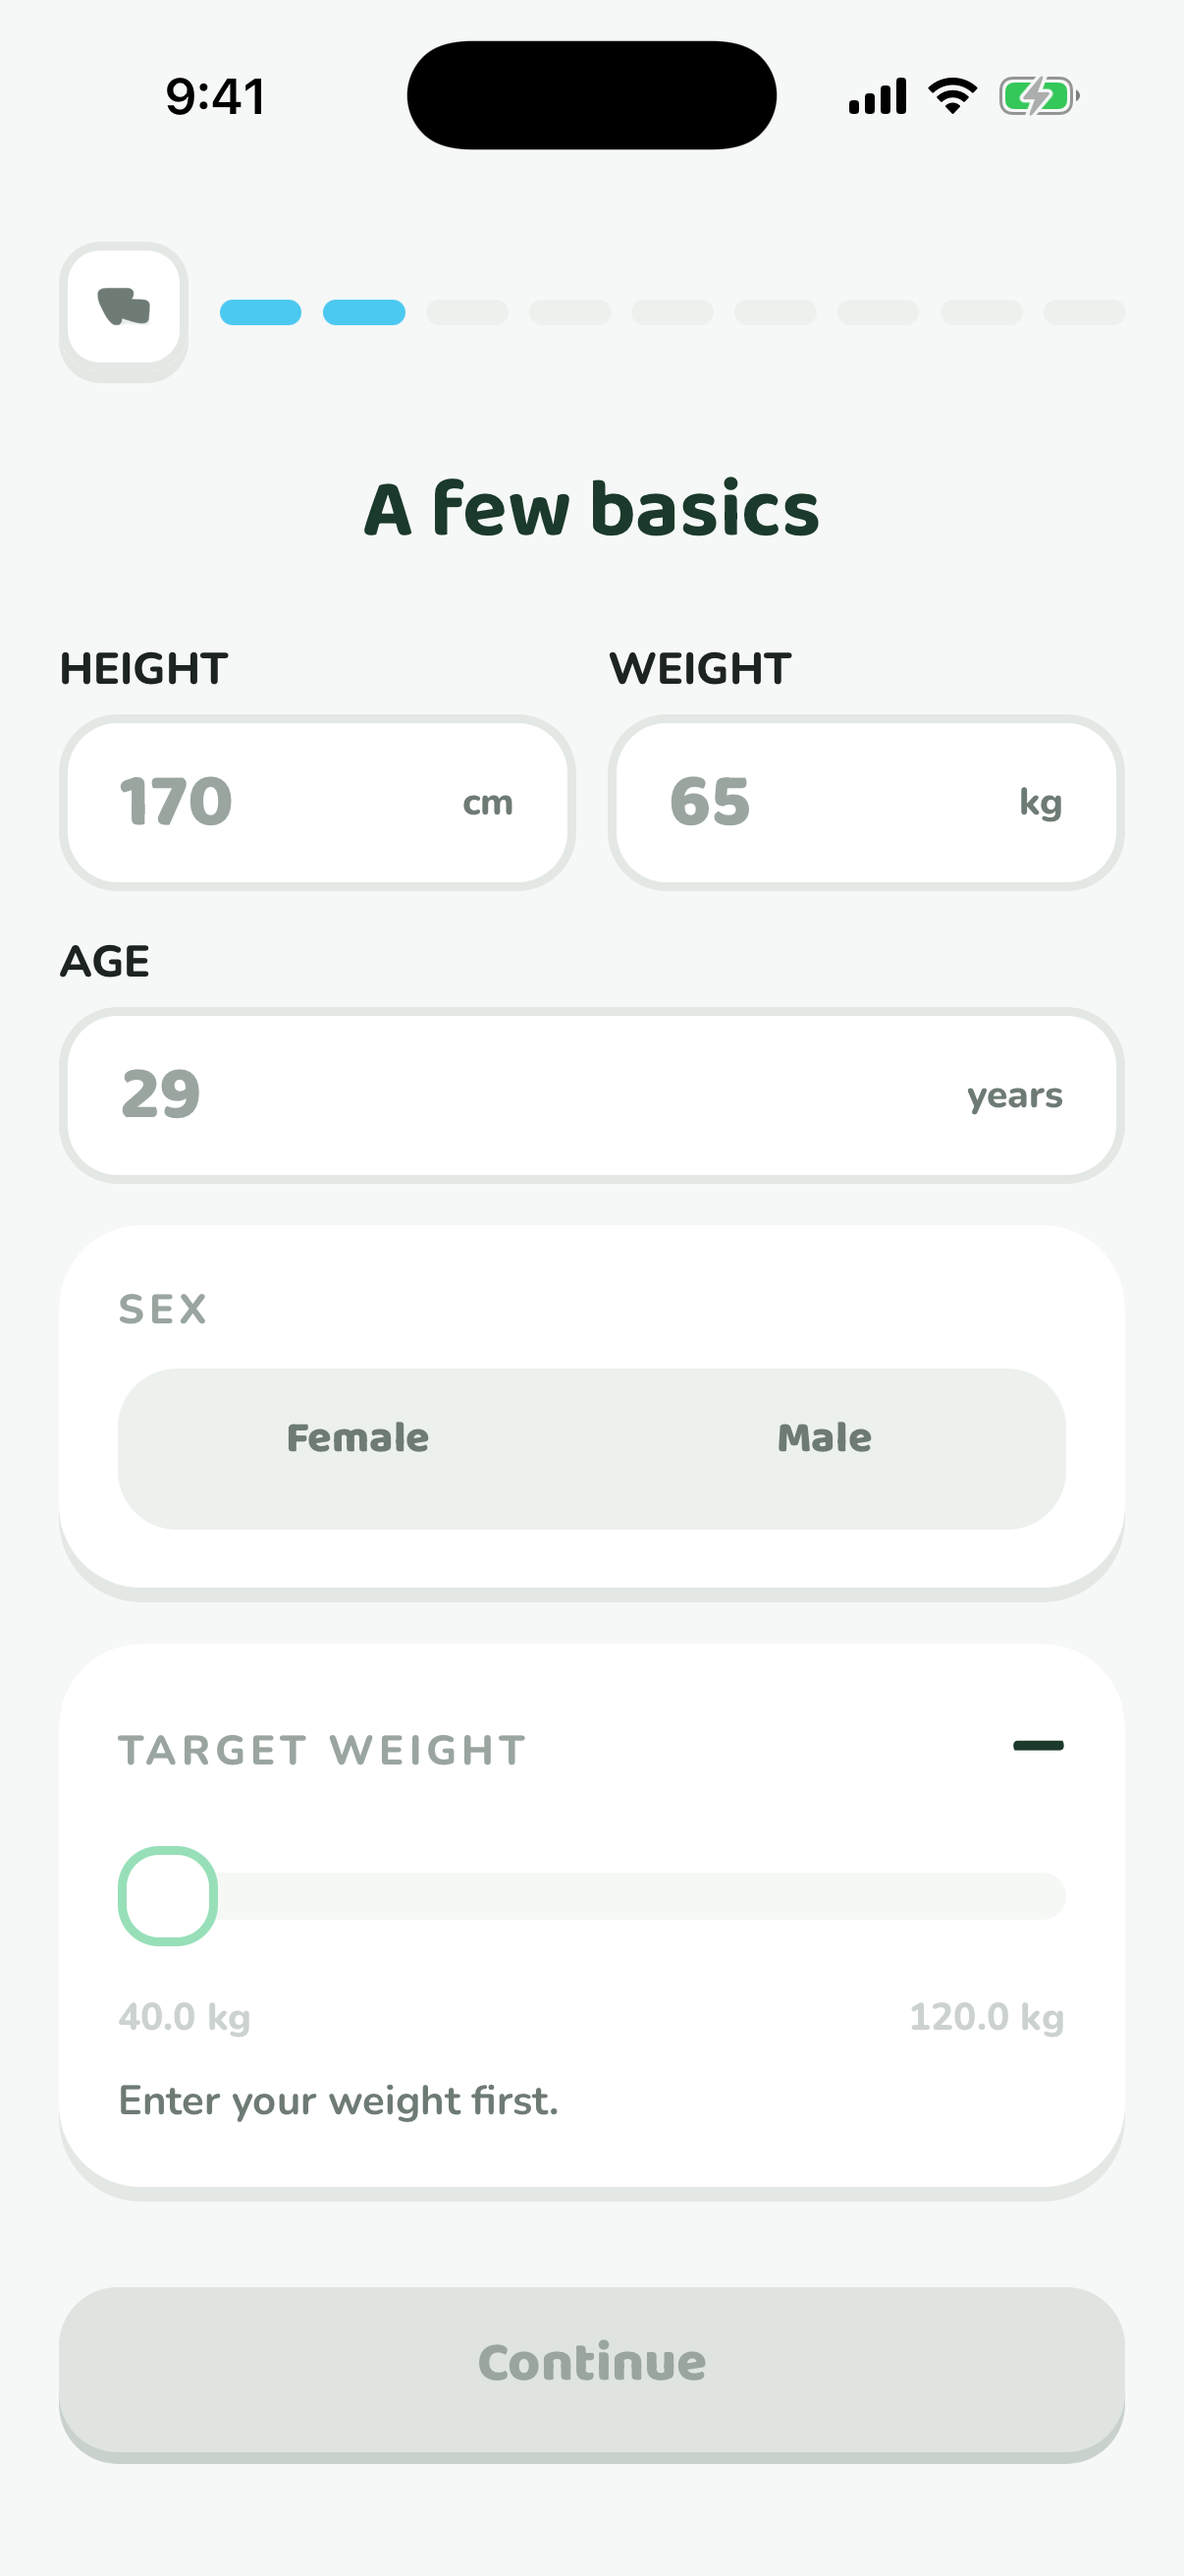
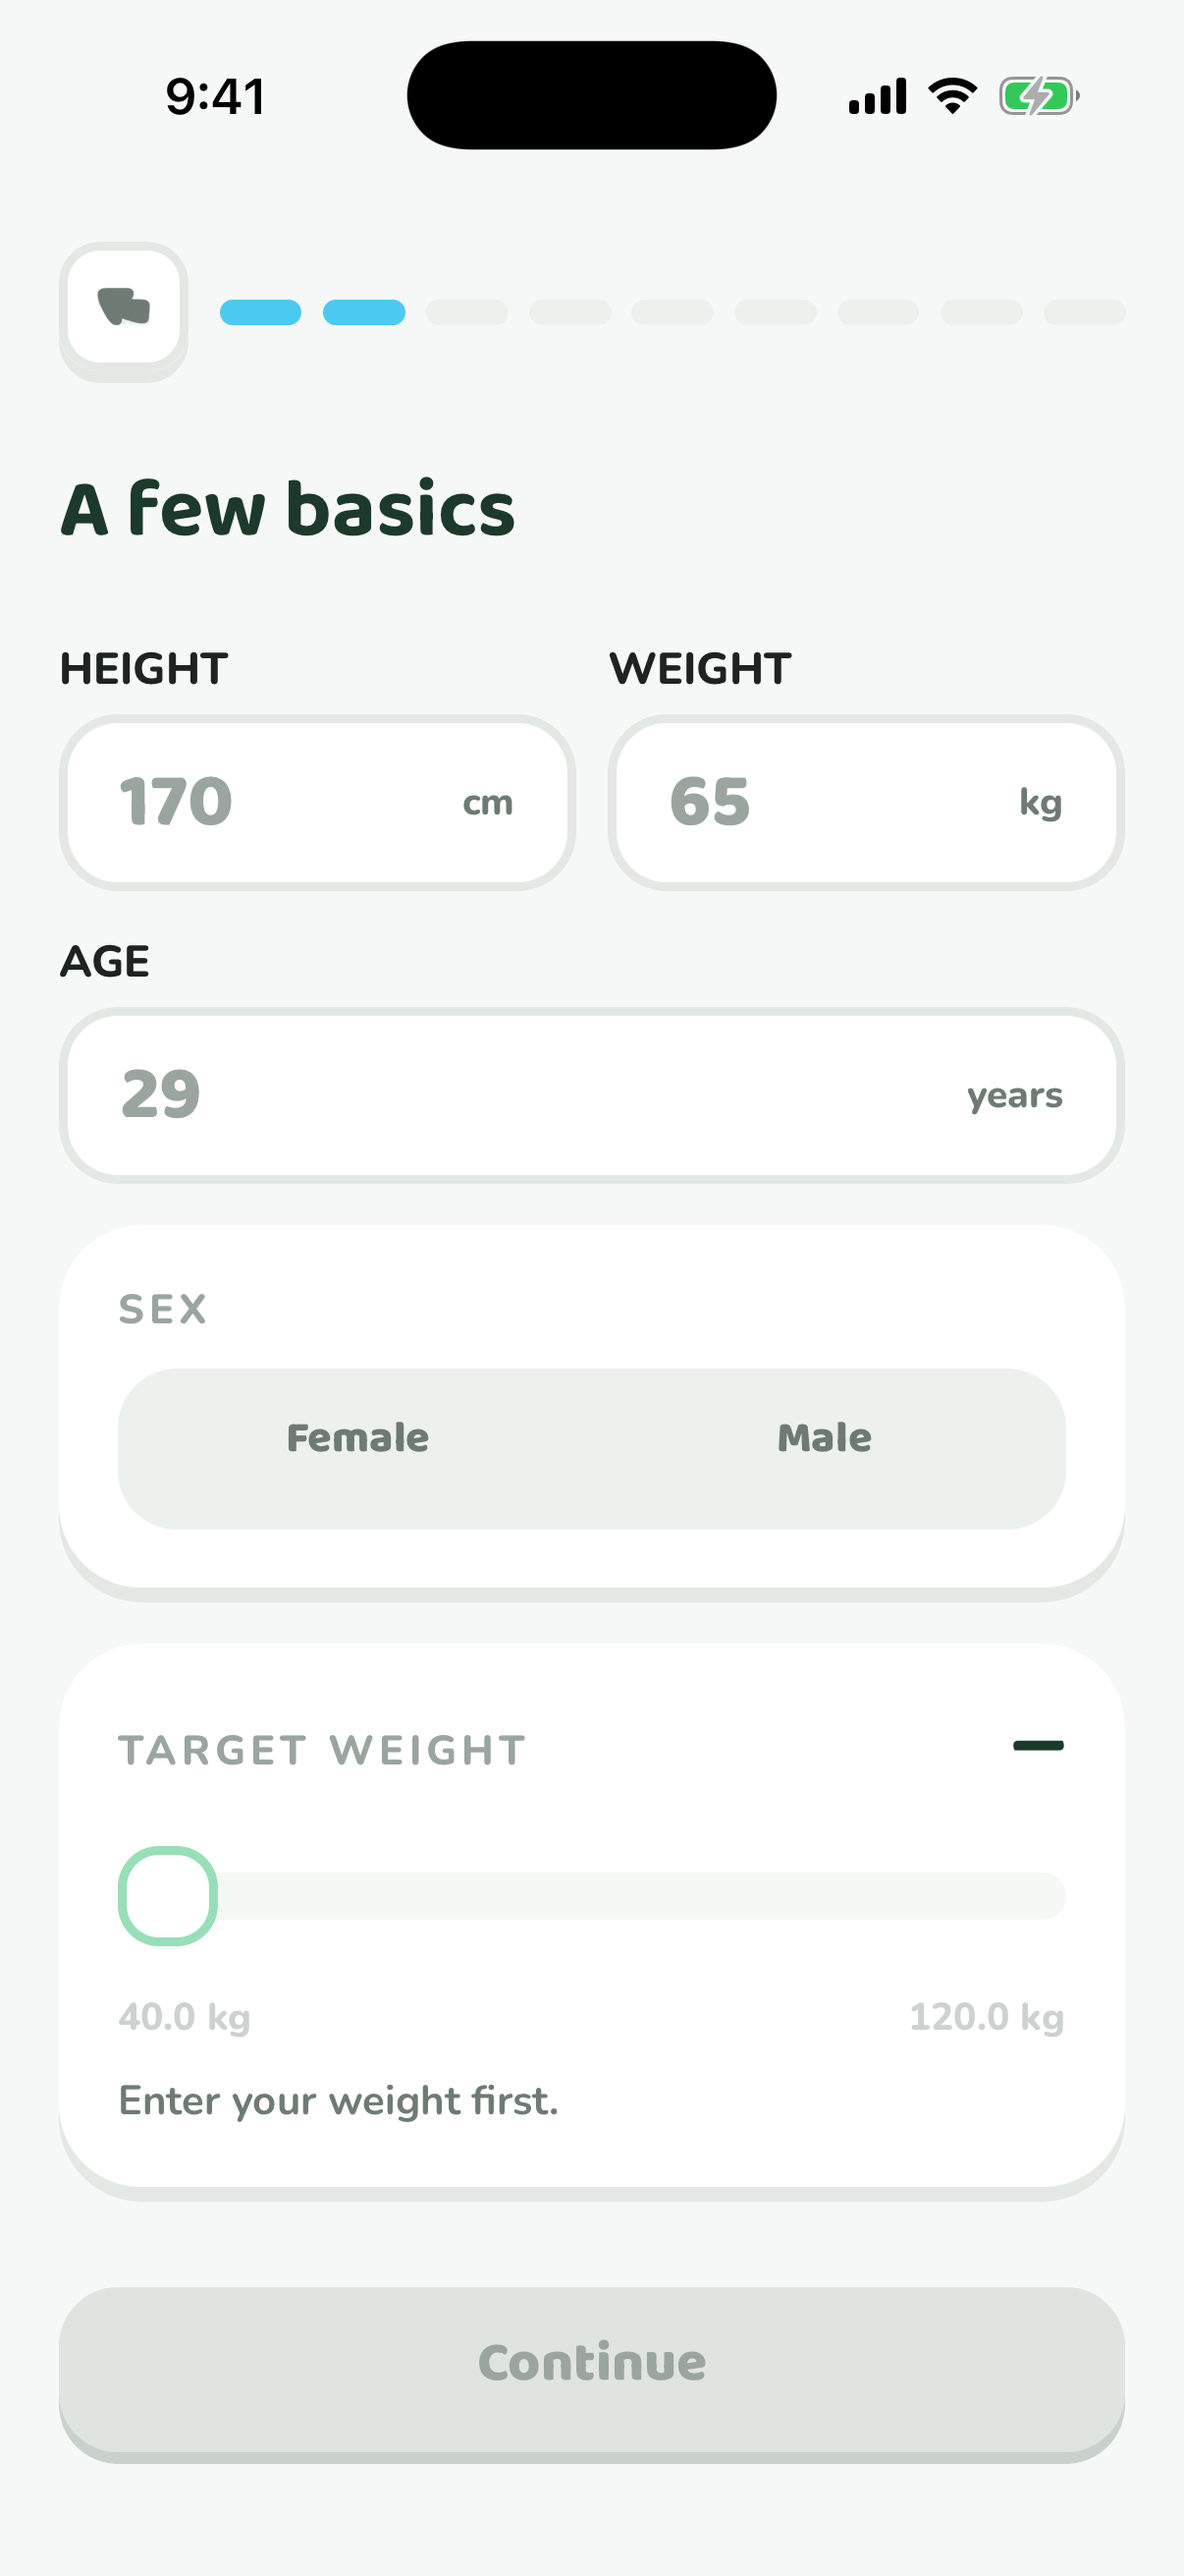
Restore left-aligned onboarding questions

Changed region(s): [[0.0307, 0.1854, 0.7056, 0.2162]]

diff --git a/apps/mobile/src/features/onboarding/StepHeader.tsx b/apps/mobile/src/features/onboarding/StepHeader.tsx
@@ -11,7 +11,7 @@ export type StepHeaderProps = {
   tone?: StepProgressTone
   /** Omitted on a screen with nothing behind it, which draws the bar alone. */
   onBack?: () => void
-  /** The question this progress row belongs to, fixed and centred beneath it. */
+  /** The question this progress row belongs to, fixed beneath it. */
   title?: string
   subtitle?: string
   className?: string
@@ -68,12 +68,8 @@ export function StepHeader({
 
       {title ? (
         <View className="gap-2 pt-4">
-          <Text variant="title" className="text-center">
-            {title}
-          </Text>
-          {subtitle ? (
-            <Text className="text-center text-[16px] leading-[24px]">{subtitle}</Text>
-          ) : null}
+          <Text variant="title">{title}</Text>
+          {subtitle ? <Text className="text-[16px] leading-[24px]">{subtitle}</Text> : null}
         </View>
       ) : null}
     </View>
